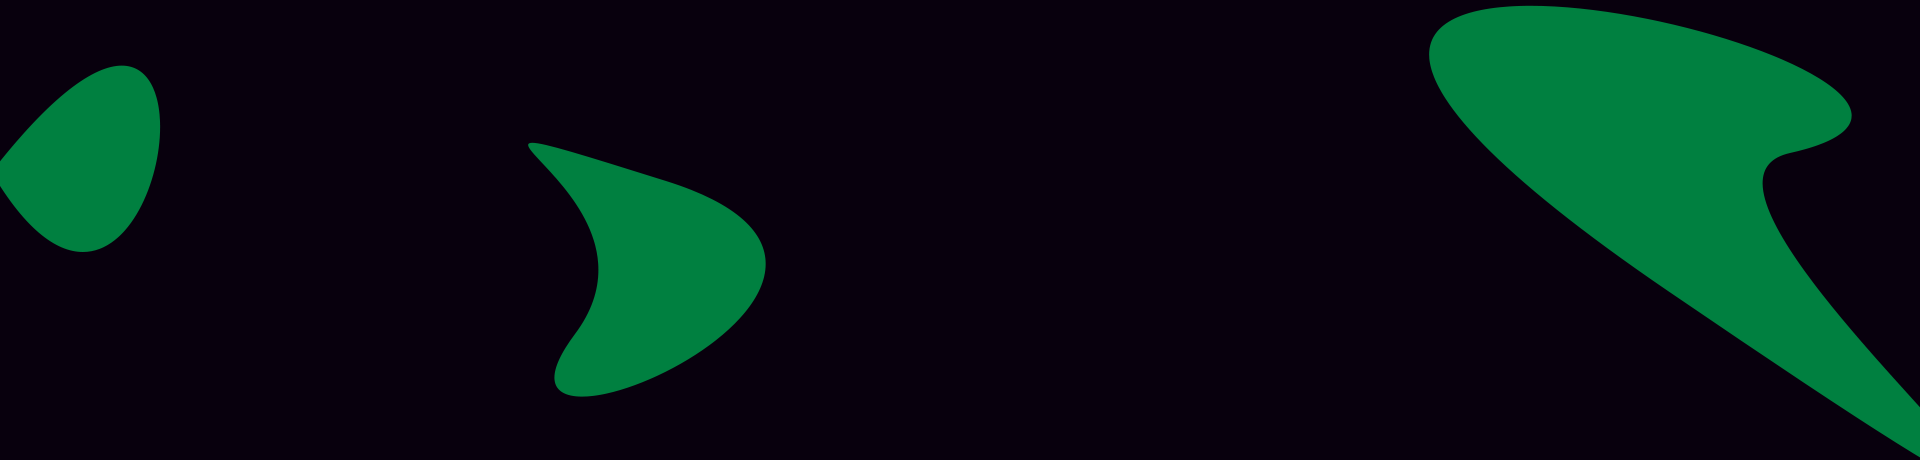
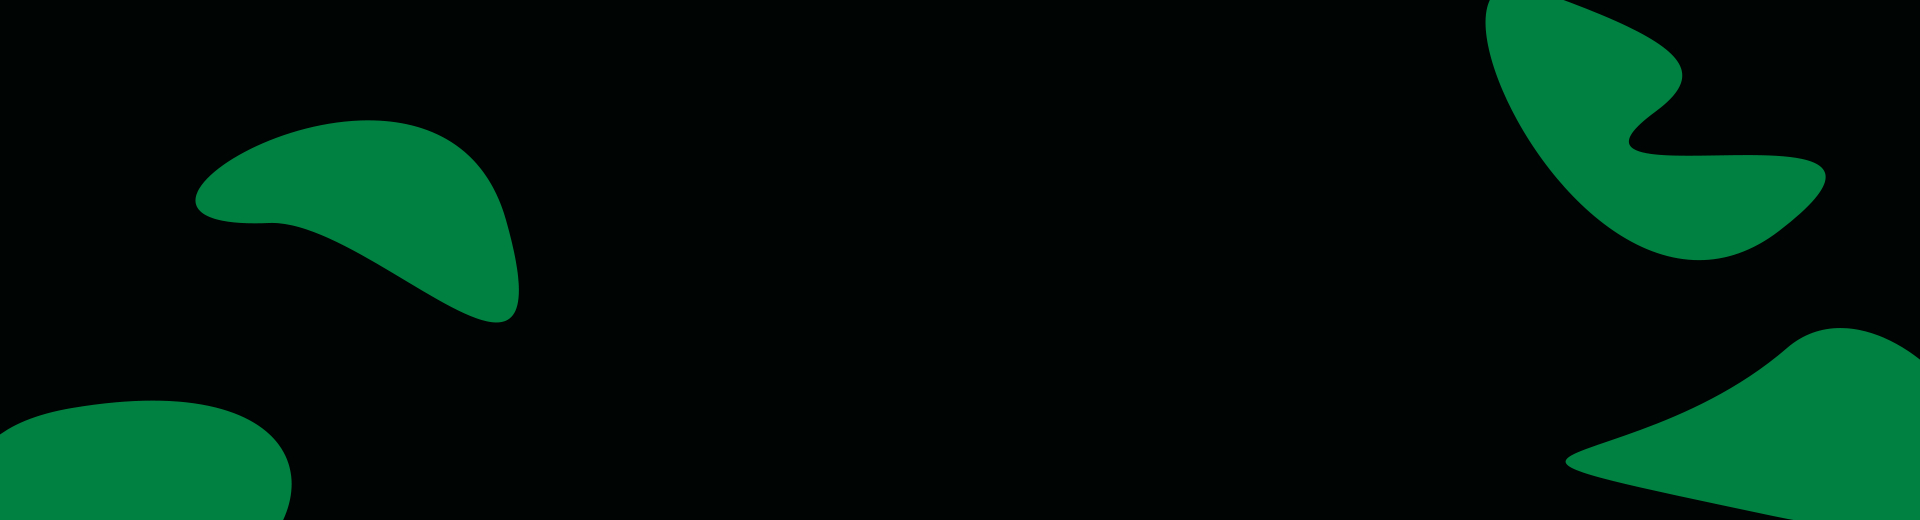
OmkoBass.github.io

Changed region(s): [[0.0, 0.1522, 0.4062, 0.8826], [0.7188, 0.0, 1.0, 1.0], [0.0, 0.7609, 0.1562, 1.0]]

diff --git a/programming.css b/programming.css
@@ -132,7 +132,8 @@ li a
 .toknow
 {
     background: url(Images/Programming/background1.png);
-    background-position: center;
+    background-position: right;
+    background-position-y: 30%;
     color: white;
     text-align: center;
 }
@@ -149,13 +150,14 @@ li a
 }
 .paid
 {
-    background-color: black;
+    background: url(Images/Programming/background1.png);
+    background-position-x: -13%;
+    background-position-y: 50%;
     padding: 32px;
 }
 .thinking
 {
-    background: url(Images/Programming/background2.png);
-    background-position: left;
+    background-color: black;
     color: white;
     text-align: center;
 }
@@ -167,7 +169,7 @@ li a
 }
 .pointers
 {
-    background-color: black;
+    background: url(Images/Programming/background2.png);
     color: white;
     text-align: center;
 }
@@ -181,8 +183,7 @@ li a
     display: flex;
     justify-content: space-between;
     flex-basis: 20%;
-    background: url(Images/Programming/background1.png);
-    background-position: left;
+    background: url(Images/Programming/backgroundcharvar.png);
 }
 .ritchie
 {
